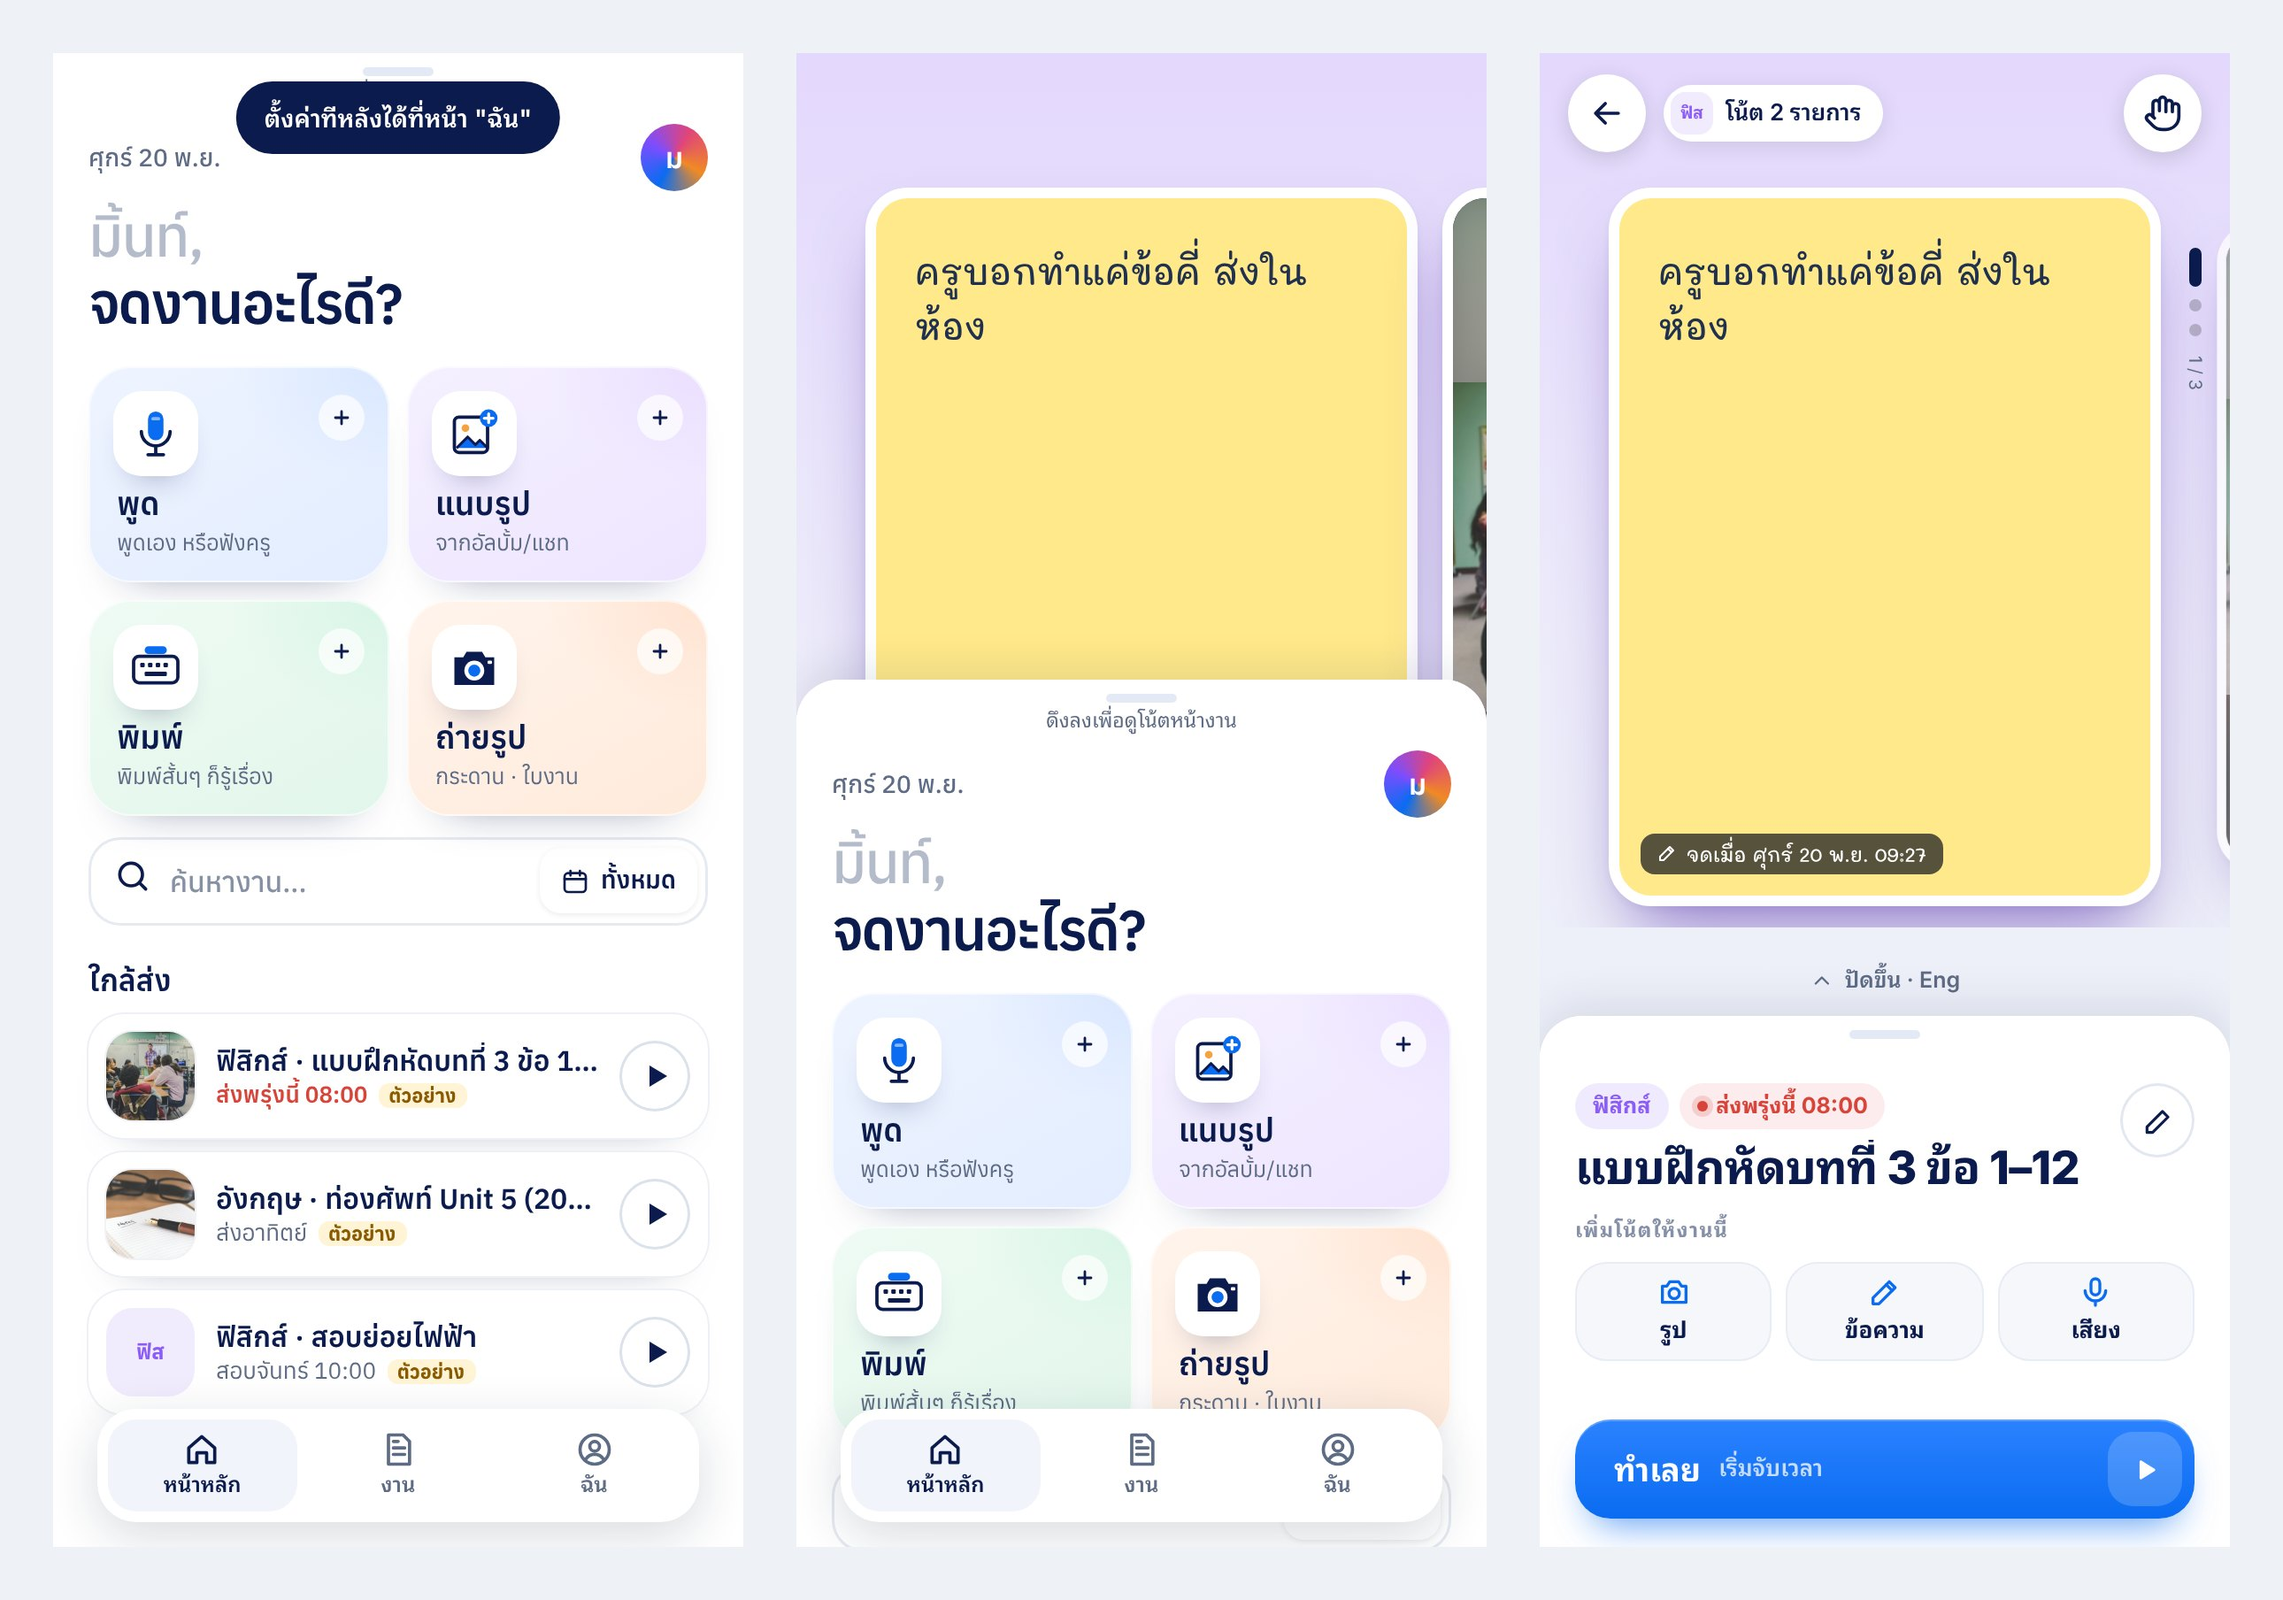
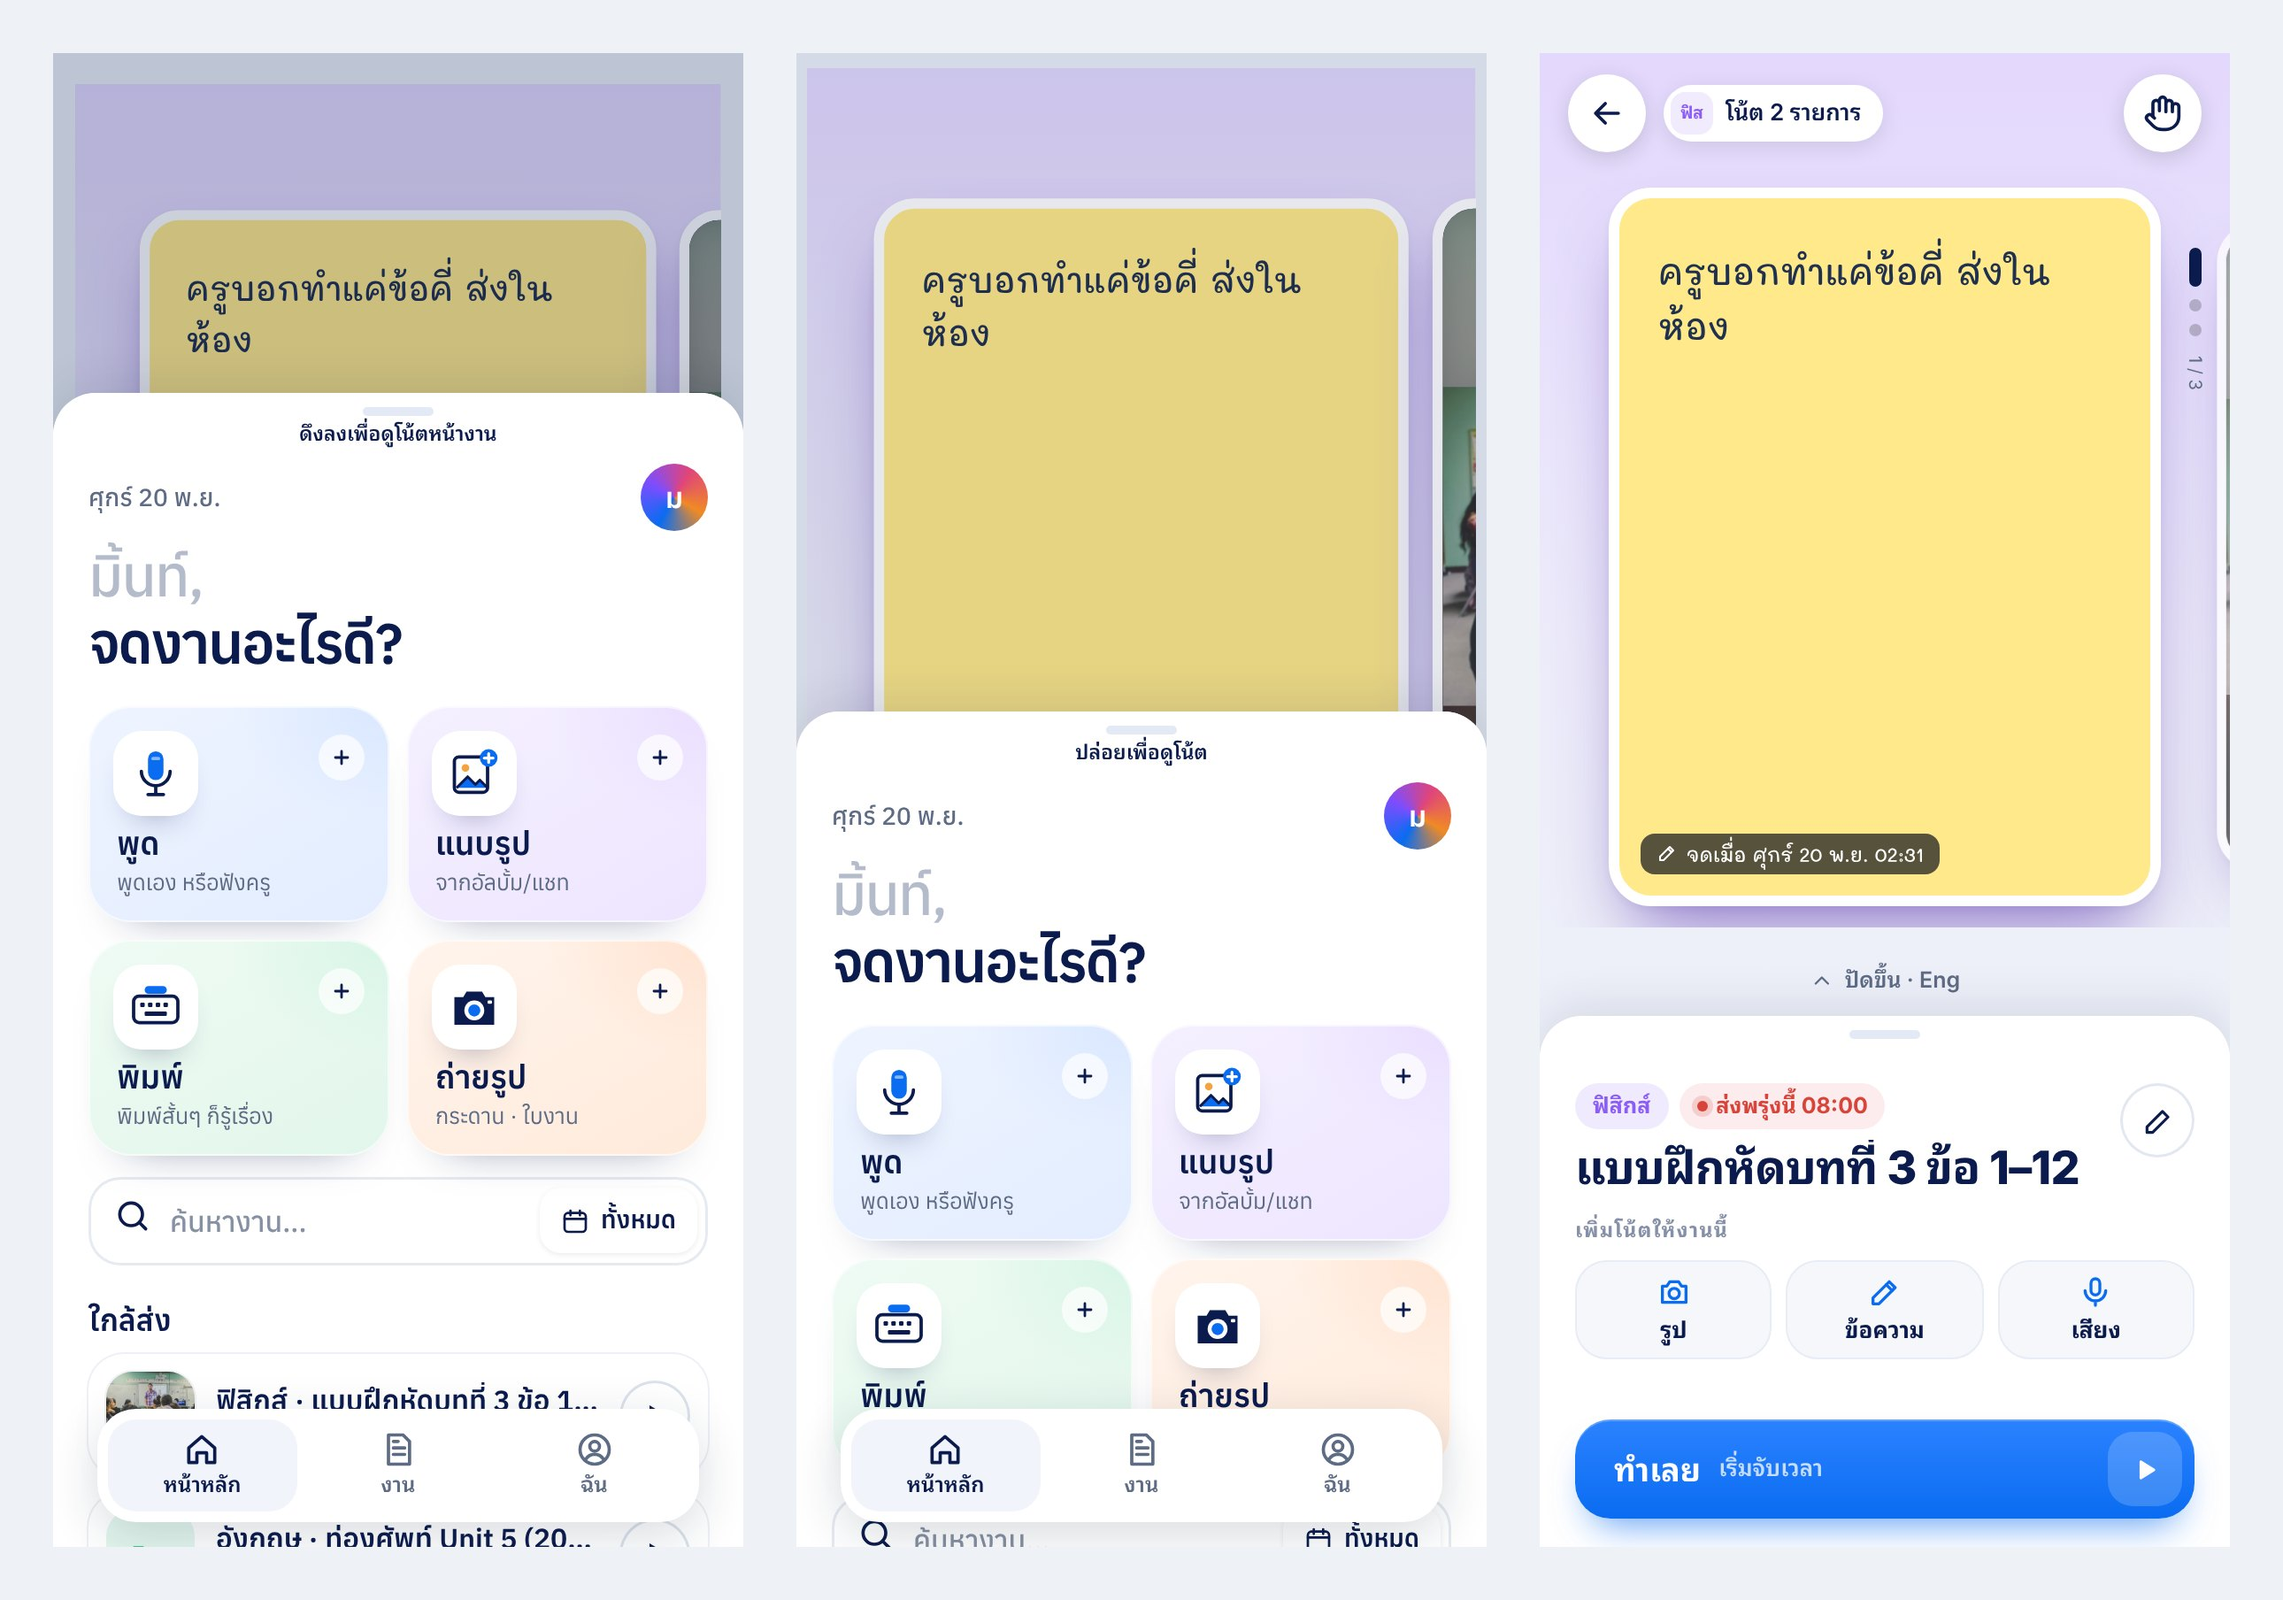
0.9.2: ดึงแผ่นแบบ Bolt ยกระดับ — ความลึกของโน้ตด้านหลัง · ที่จับบอกปล่อย · สั่นตอนเข้าระดับ · ยืดแล้วเด้งกลับ
Claude-Session: https://claude.ai/code/session_01EH8Q8bXkn1qbEiPgsVfsTt

diff --git a/src/features/home.js b/src/features/home.js
@@ -31,6 +31,7 @@ export const homeState = () => ({ snapIdx, cur, pages: [...pages], noteMode: doc
 export function initHome() {
   sheet = $('#sheet'); paneHome = $('#pane-home'); paneNote = $('#pane-note'); stage = $('#stage');
   measureSafe(); initSheetDrag(); initStage(); initNoteUi();
+  stage.after(h('div', { id: 'stage-dim', 'aria-hidden': 'true' }));
   onBack(() => { if (!isNoteMode() || modalOpen()) return false; setSnap(2, true); return true; });
   addEventListener('resize', () => setSnap(snapIdx));
   app.openNotes = openNotes;
@@ -40,9 +41,21 @@ export function renderHomeAll() { renderHome(); renderStage(); }
 
 /* ---------------- แผ่นล่าง ---------------- */
 const isNoteMode = () => document.body.classList.contains('note-mode');
+/* ความลึกตอนดึงแผ่น (0.9.2): โน้ตด้านหลังย่อ + มืดตอนแผ่นเต็มจอ → ค่อย ๆ ขยาย/สว่างตามนิ้วจนเต็มเมื่อดึงลงสุด
+   ที่จับเปลี่ยนเป็น "ปล่อยเพื่อดูโน้ต" เมื่อเลยจุดเข้าโหมดโน้ต · เข้าระดับแล้วสั่นเบา ๆ (Android) · ดันขึ้นเกินจอ = ยืดแล้วเด้งกลับ */
+let hintEl = null, lastSnap = 2;
+function pullDepth(v) {
+  const [lo, , hi] = snapPx(), p = Math.max(0, Math.min(1, (hi - v) / Math.max(1, hi - lo)));
+  const r = document.documentElement.style;
+  r.setProperty('--pull', p.toFixed(3));
+  r.setProperty('--stage-tf', p > .995 || matchMedia('(prefers-reduced-motion: reduce)').matches ? 'none' : `scale(${(.9 + .1 * p).toFixed(4)})`);
+  hintEl ||= $('.grab .hint');
+  if (hintEl) hintEl.textContent = sheet.classList.contains('dragging') && v < snapPx()[1] - 12 ? 'ปล่อยเพื่อดูโน้ต' : 'ดึงลงเพื่อดูโน้ตหน้างาน';
+}
 function setVis(v) {
   vis = v;
   document.documentElement.style.setProperty('--sheet-vis', v + 'px');
+  pullDepth(v);
   sheet.classList.toggle('full', v >= snapPx()[2] - 2);
   sheet.dataset.snap = ['low', 'mid', 'top'][snapIdx];
   const nm = v < (snapPx()[0] + snapPx()[1]) / 2;
@@ -54,8 +67,11 @@ function setVis(v) {
     targeted = false;
   }
 }
-export function setSnap(i, fromBack = false) {
+export function setSnap(i, fromBack = false, felt = false) {
   snapIdx = Math.max(0, Math.min(2, i));
+  if (felt && snapIdx !== lastSnap) navigator.vibrate?.(8);
+  lastSnap = snapIdx;
+  over(0);
   setVis(snapPx()[snapIdx]);
   if (snapIdx < 2) paneHome.scrollTop = 0;
   if (snapIdx > 0 && !fromBack) dropBack('note');
@@ -67,9 +83,11 @@ function settle(hist) {
   const v = (y1 - y0) / Math.max(1, t1 - t0); // พิกเซล/มิลลิวินาที (+ = ลง)
   const target = vis - v * 180, s = snapPx();
   let best = 0; s.forEach((x, i) => { if (Math.abs(x - target) < Math.abs(s[best] - target)) best = i; });
-  setSnap(best);
+  setSnap(best, false, true);
 }
-const clampVis = v => Math.max(LOW * .7, Math.min(innerHeight, v));
+/** ดันแผ่นขึ้นเกินขอบจอ: ของในแผ่นยืดตามนิ้วแบบหนืด (ไม่เกิน 44px) แล้วเด้งกลับตอนปล่อย */
+function over(px) { sheet.style.setProperty('--over', Math.min(44, Math.max(0, px * .3)).toFixed(1) + 'px'); }
+const clampVis = v => { over(v - innerHeight); return Math.max(LOW * .7, Math.min(innerHeight, v)); };
 function initSheetDrag() {
   // ลากได้ทั้งแผ่น (รวมบนปุ่ม) — แผ่นตามนิ้วทันที ไม่ต้องกด · แตะเฉย ๆ ไม่ขยับ
   let drag = null, suppress = false;

diff --git a/src/styles/app.css b/src/styles/app.css
@@ -982,3 +982,12 @@ body.hf-on .pager { top: calc(160px + env(safe-area-inset-top, 0px)); }
 @keyframes hrise { from { opacity: 0; transform: translate3d(0,14px,0); filter: blur(6px); } }
 @media (prefers-reduced-motion: reduce) { .pane-home .tile { animation: none; } }
 @media (max-height: 700px) { .tile { min-height: 100px; } .tile .ti-ic { width: 40px; height: 40px; } .tile .ti-ic svg { width: 24px; height: 24px; } .pane-home h1.big { font-size: 28px; margin-bottom: 12px; } }
+/* ดึงแผ่นแบบ Bolt — ความลึก: โน้ตด้านหลังย่อ + มืดตอนแผ่นเต็มจอ แล้วขยายเต็มเมื่อดึงลง (--pull: 0 = แผ่นเต็มจอ · 1 = ดึงลงสุด) */
+#stage { transform: var(--stage-tf, none); transform-origin: 50% 32%; transition: transform .34s cubic-bezier(.2,.8,.2,1); }
+#stage-dim { position: fixed; inset: 0; z-index: 1; pointer-events: none; background: #0B1B4D; opacity: calc((1 - var(--pull, 1)) * .32); transition: opacity .34s cubic-bezier(.2,.8,.2,1); }
+#sheet.dragging ~ #stage-dim, body:has(#sheet.dragging) #stage, body:has(#sheet.dragging) #stage-dim { transition: none; }
+#sheet .pane { transform: translate3d(0, calc(-1 * var(--over, 0px)), 0); transition: opacity .2s, transform .45s cubic-bezier(.2,.8,.2,1.4); }
+#sheet.dragging .pane { transition: opacity .2s; }
+.grab .hint { transition: opacity .2s, color .2s; }
+#sheet.dragging .grab .hint { color: var(--ink); font-weight: 600; }
+@media (prefers-reduced-motion: reduce) { #stage, #stage-dim, #sheet .pane { transition: none; } }

diff --git a/README.md b/README.md
@@ -4,6 +4,7 @@
 **เว็บจริง: https://sabaii.vercel.app/** (หน้าแนะนำ) → `/app/` (แอป) — Vercel สร้างเว็บใหม่เองทุกครั้งที่ merge เข้า `main` (`vercel.json` → `scripts/build-site.sh` → `dist/`) · ลิงก์ทดลองบน claude.ai (อัปเป็น 0.5.0 แล้ว 19 พ.ย. 69): https://claude.ai/artifact/47pz99QLbKfpoZAbvJtaoK (ส่วนตัว — เปิดได้เฉพาะเจ้าของจนกว่าจะแชร์) · หน้าของลิงก์คือ `artifact.html`
 
 **0.9.2 (20 พ.ย. 69):** หน้าแรก — **โครงเดิม** (หัวเรื่อง · เพิ่มงาน 4 แบบ · ค้นหา · รายการ — เจ้าของเลือก) หน้าตาชุดเดียวกับหน้าแนะนำ: วันที่ + "จดงานอะไรดี?" · ปุ่มเพิ่มงานเป็นการ์ดพาสเทลไล่สี ไอคอนในวงขาว · ค้นหาขอบบาง · รายการหัวข้อ "ใกล้ส่ง" (ไม่เน้นทำอันไหนก่อน) เป็นการ์ด มีรูปย่อจากโน้ตจริง ปุ่มวงกลมเล็กแทนปุ่ม "ทำเลย" สีฟ้า
+ดึงแผ่นแบบ Bolt ยกระดับ: โน้ตด้านหลังย่อ + มืดตอนแผ่นเต็มจอ แล้วขยาย/สว่างตามนิ้วจนเต็ม · ที่จับเปลี่ยนเป็น "ปล่อยเพื่อดูโน้ต" · เข้าระดับแล้วสั่นเบา ๆ (Android) · ดันขึ้นเกินจอแล้วเด้งกลับ · ภาพ `mockups/sabaii-home-pulldown.jpg`
 แบบที่ลองแล้วไม่ใช้ (เก็บเป็นภาพ): แถบจดงานใต้นิ้วโป้ง `mockups/sabaii-home-0.9.2.png` · แนว Bolt `mockups/sabaii-home-bolt.jpg` · จดใน 1 วินาที `mockups/sabaii-home-capture.jpg` (กดค้างพูด · แชร์จาก LINE · เมนูลัดไอคอน — เจ้าของชอบ ทำทีหลัง)
 
 **0.9.0 (19 พ.ย. 69):** หน้างาน + หน้าฉัน ชุดเดียวกับหน้าแนะนำ (ภาพเทียบ: `mockups/sabaii-app-compare.jpg` — เจ้าของเลือกภาพ 2–3)
